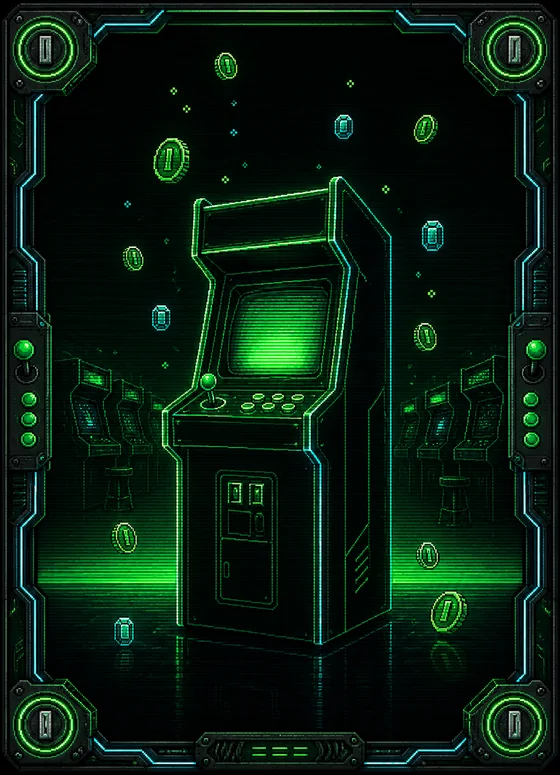
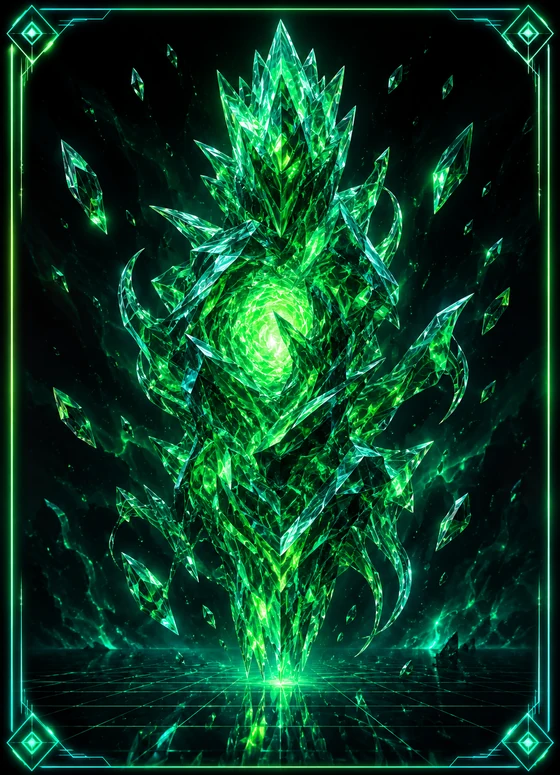
Arcade → „Beryll": neue Smaragd-Kristall-Art + Umbenennung (IDs bleiben arcade)
bf_arcade + deck_arcade auf Smaragd-Kristall-Look (grüne Kristallformationen,
Kristallwesen, Neon-Grid-Boden). Anzeigename „Arcade" → „Beryll" (Deck + BF),
Emblem 🕹 → 💎. Pack-/Deck-IDs (pack:arcade) unverändert → kein Besitz-Bruch.
Cube-Matrix-Showcase-Kommentar mitgezogen. 1000 Tests grün.

Claude-Session: https://claude.ai/code/session_019AHmCns7mZqdQHxExY4Jbx

diff --git a/src/game/cosmetics.js b/src/game/cosmetics.js
@@ -66,7 +66,7 @@ export const DECK_DEFS = {
   deck_sonne:  { id: "deck_sonne",  name: "Sonnenfinsternis", unlock: { kind: "buy", ownKey: "pack:sonne" } },
   deck_drache: { id: "deck_drache", name: "Laternenfest",     unlock: { kind: "buy", ownKey: "pack:drache" } },
   // #312 DP-Kauf-Packs (je 10 DP, Preis in themes.js):
-  deck_arcade:     { id: "deck_arcade",     name: "Arcade",     unlock: { kind: "buy", ownKey: "pack:arcade" } },
+  deck_arcade:     { id: "deck_arcade",     name: "Beryll",     unlock: { kind: "buy", ownKey: "pack:arcade" } },
   deck_polarlicht: { id: "deck_polarlicht", name: "Polarlicht", unlock: { kind: "buy", ownKey: "pack:polarlicht" } },
   deck_seedrache:  { id: "deck_seedrache",  name: "Eldritch",   unlock: { kind: "buy", ownKey: "pack:seedrache" } },
 };
@@ -105,7 +105,7 @@ export const BATTLEFIELD_DEFS = {
   bf_sonne:  { id: "bf_sonne",  name: "Sonnenfinsternis · Battlefield", unlock: { kind: "buy", ownKey: "pack:sonne" } },
   bf_drache: { id: "bf_drache", name: "Laternenfest · Battlefield",     unlock: { kind: "buy", ownKey: "pack:drache" } },
   // #312 DP-Kauf-Packs:
-  bf_arcade:     { id: "bf_arcade",     name: "Arcade · Battlefield",     unlock: { kind: "buy", ownKey: "pack:arcade" } },
+  bf_arcade:     { id: "bf_arcade",     name: "Beryll · Battlefield",     unlock: { kind: "buy", ownKey: "pack:arcade" } },
   bf_polarlicht: { id: "bf_polarlicht", name: "Polarlicht · Battlefield", unlock: { kind: "buy", ownKey: "pack:polarlicht" } },
   bf_seedrache:  { id: "bf_seedrache",  name: "Eldritch · Battlefield",   unlock: { kind: "buy", ownKey: "pack:seedrache" } },
 };

diff --git a/src/ui/CustomizeScreen.jsx b/src/ui/CustomizeScreen.jsx
@@ -86,7 +86,7 @@ const DEMO_C = "#35e0ff";
 export const LOOK_REFS = { // #327 exportiert für den Drift-Guard-Test (kein Effekt darf still eine Fremdfarbe einführen)
   aurora:        { pack: "wale" },       // Feld IST der Effekt (bgfx) — Deckfarbe = Moonwhale (kühl)
   starfield:     { pack: "drache" },     // bgfin — Deckfarbe = Goldener Drache (warm)
-  cubematrix:    { pack: "arcade" },     // bgfx — Deckfarbe = Arcade (grün/cyan)
+  cubematrix:    { pack: "arcade" },     // bgfx — Deckfarbe = Beryll (grün/cyan)
   klinge:        { pack: "drache" },     // Sieg-Finisher — Deckfarbe = Drache (warm-gold)
   scorch:        { pack: "wale" },       // Sieg-Finisher — Deckfarbe = Moonwhale (kühl-cyan)
   hologrid:      { pack: "blitz" },      // Sieg-Finisher (Hologrid-Laser) — Deckfarbe = Blitz (violett)

diff --git a/src/ui/cosmeticAssets.js b/src/ui/cosmeticAssets.js
@@ -118,7 +118,7 @@ import bfSonneMobile    from "../assets/battlefields/bf_sonne/mobile.jpg";
 import bfDracheDesktop  from "../assets/battlefields/bf_drache/desktop.jpg";
 import bfDracheMobile   from "../assets/battlefields/bf_drache/mobile.jpg";
 // #312 drei DP-Kauf-Packs (je 10 DP): Arcade + Polarlicht + Seedrache.
-import arcadeFront     from "../assets/cards/decks_player/deck_arcade/front.webp";     // Arcade
+import arcadeFront     from "../assets/cards/decks_player/deck_arcade/front.webp";     // Beryll (ehem. Arcade)
 import arcadeBack      from "../assets/cards/decks_player/deck_arcade/back.webp";
 import polarlichtFront from "../assets/cards/decks_player/deck_polarlicht/front.webp"; // Polarlicht
 import polarlichtBack  from "../assets/cards/decks_player/deck_polarlicht/back.webp";

diff --git a/src/game/themes.js b/src/game/themes.js
@@ -199,7 +199,7 @@ export const THEME_DEFS = {
     deckId: "deck_drache", bfId: "bf_drache", els: ["deck", "bf"] },
 
   // ---- #312 DP-Kauf-Packs (je 10 DP): Arcade · Polarlicht · Seedrache ----
-  arcade:     { id: "arcade",     name: "Arcade",     emblem: "🕹", kind: "buy", price: 10, a1: "#39e64d", a2: "#38c6e0",
+  arcade:     { id: "arcade",     name: "Beryll",     emblem: "💎", kind: "buy", price: 10, a1: "#39e64d", a2: "#38c6e0",
     deckId: "deck_arcade",     bfId: "bf_arcade",     els: ["deck", "bf"] },
   polarlicht: { id: "polarlicht", name: "Polarlicht", emblem: "🌌", kind: "buy", price: 10, a1: "#7cc6ff", a2: "#4fe6b0",
     deckId: "deck_polarlicht", bfId: "bf_polarlicht", els: ["deck", "bf"] },
